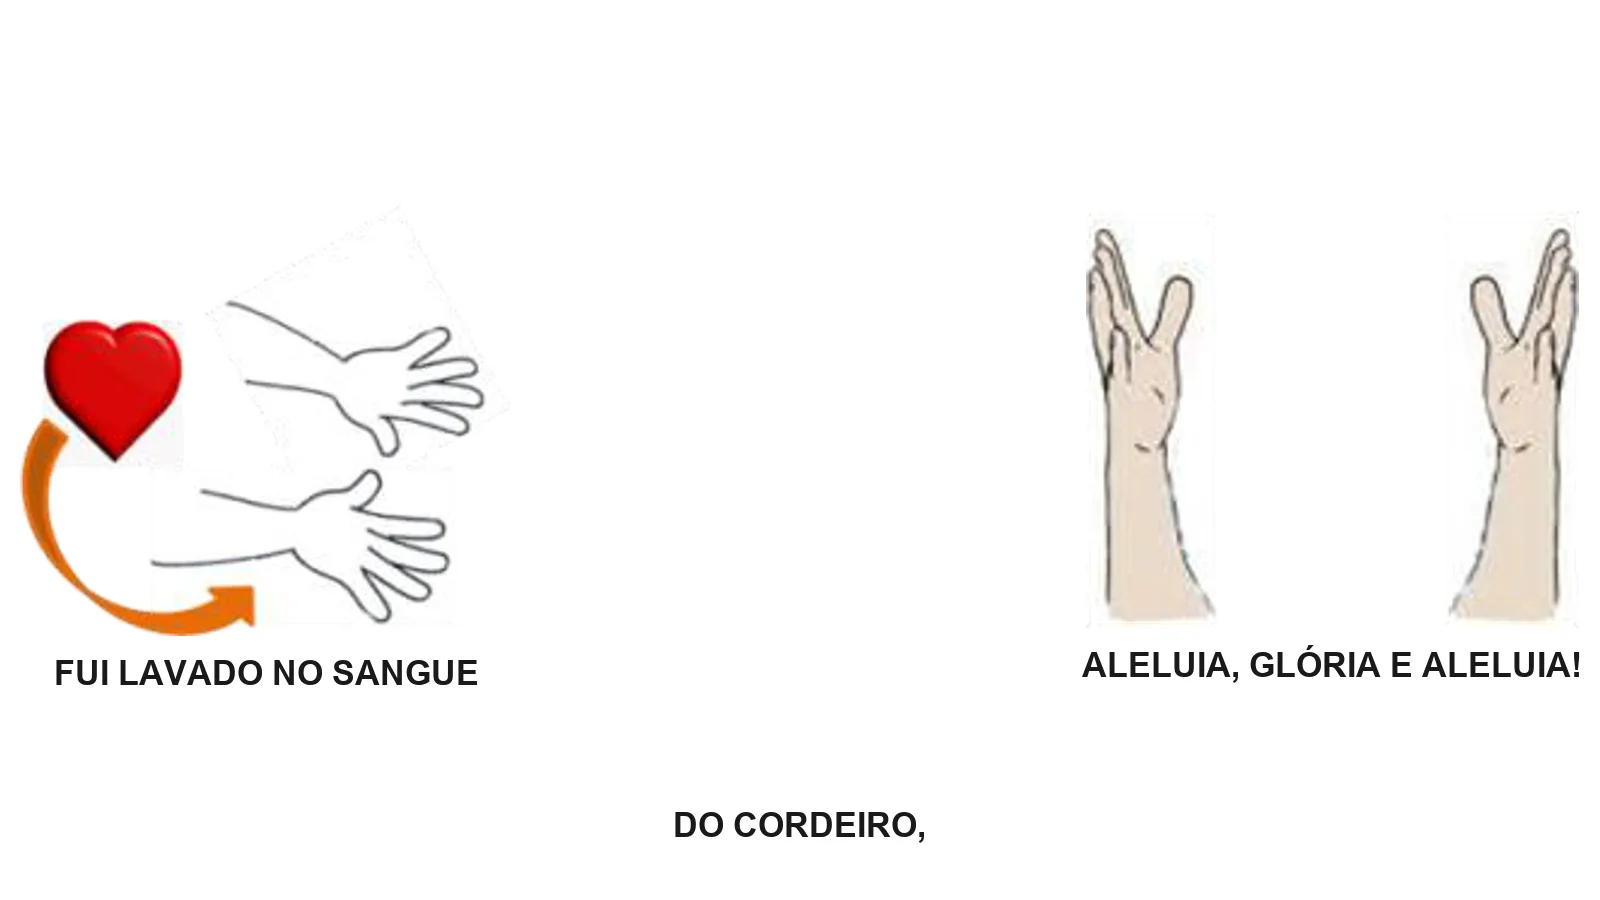
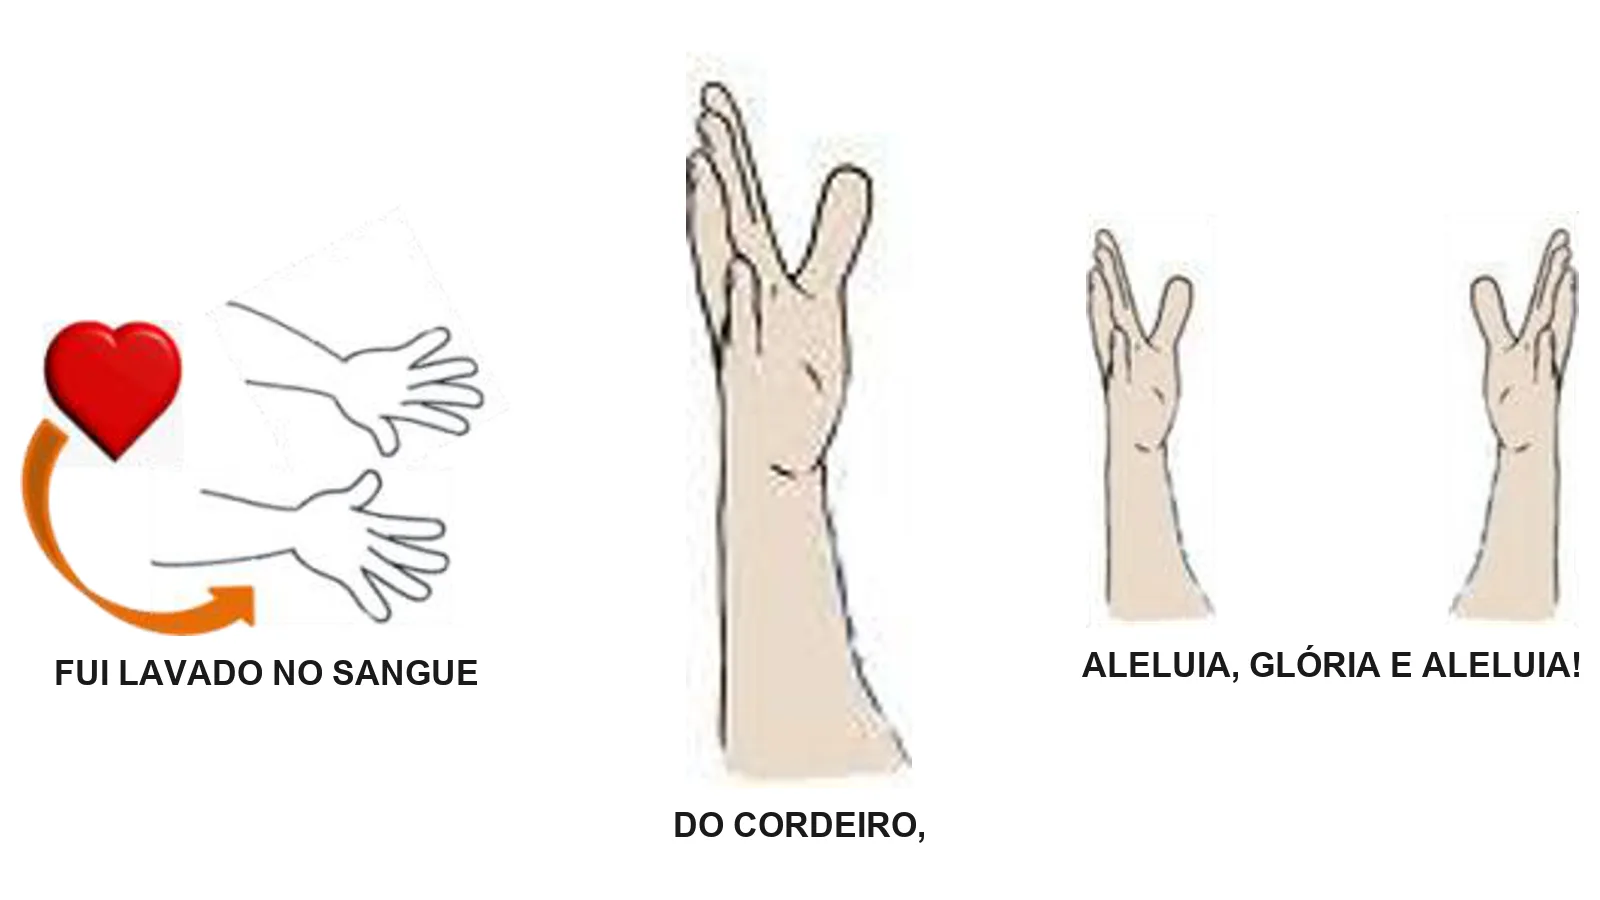
3.0.10 (d): figuras do livro da Cris - a mao levantada, legenda por figura, repetida = gesto da 1a vez
- gestos_da_apresentacao.py: FALTAM vazio (a mao vem do proprio livro agora), cada figura leva o seu
  pedaco da letra (legs do extrator) onde ele muda algo, e a figura e sempre refeita (o nome e a
  posicao no livro: fui_lavado_02_0 era o colchete em branco e agora e a mao).
- 33 slides (24 Louvores + 9 aula): a mao entra em 9 frases; o 2o bloco do Fui lavado herda os gestos
  da 1a vez; 'O Pai Celeste' | 'que deseja a ti todo Bem.'; aula 20: a figura de 'De nova vida e
  felicidade.' estava rotulada 'oportunidade,'.
- 14 figuras sem uso apagadas (todas no historico).

Claude-Session: https://claude.ai/code/session_01CNsiz6T3bK3QPfbwJhJtgK

Changed region(s): [[0.4062, 0.0933, 0.5625, 0.8711]]

diff --git a/dados/gestos.js b/dados/gestos.js
@@ -42,15 +42,15 @@ window.GESTOS["apres:Louvores da Evangelização de Outubro 2026"] = {
   "louvor": "FUI LAVADO NO SANGUE",
   "figs": [
    {
-    "img": "gestos/evang_out2026/f/fui_lavado_fui_lavado_07_0.webp",
+    "img": "gestos/evang_out2026/f/fui_lavado_fui_lavado_00_0.webp",
     "txt": "Fui lavado no sangue"
    },
    {
-    "img": "gestos/evang_out2026/f/fui_lavado_fui_lavado_09_0.webp",
+    "img": "gestos/evang_out2026/f/fui_lavado_fui_lavado_02_0.webp",
     "txt": "do cordeiro,"
    },
    {
-    "img": "gestos/evang_out2026/f/fui_lavado_fui_lavado_10_0.webp",
+    "img": "gestos/evang_out2026/f/fui_lavado_fui_lavado_03_0.webp",
     "txt": "Aleluia, Glória e Aleluia!"
    }
   ]
@@ -60,16 +60,16 @@ window.GESTOS["apres:Louvores da Evangelização de Outubro 2026"] = {
   "louvor": "FUI LAVADO NO SANGUE",
   "figs": [
    {
-    "img": "gestos/evang_out2026/f/fui_lavado_jesus_mao.webp",
+    "img": "gestos/evang_out2026/f/fui_lavado_fui_lavado_100_0.webp",
     "txt": "A Jesus honra e louvor,"
    },
    {
     "img": "gestos/evang_out2026/f/fui_lavado_fui_lavado_101_0.webp",
-    "txt": "Aleluia ao meu Salvador"
+    "txt": "Aleluia"
    },
    {
     "img": "gestos/evang_out2026/f/fui_lavado_fui_lavado_101_1.webp",
-    "txt": "Aleluia ao meu Salvador"
+    "txt": "ao meu Salvador"
    }
   ]
  },
@@ -137,7 +137,11 @@ window.GESTOS["apres:Louvores da Evangelização de Outubro 2026"] = {
    },
    {
     "img": "gestos/evang_out2026/f/81_81_11_0.webp",
-    "txt": "O PAI CELESTE QUE DESEJA A TI TODO BEM."
+    "txt": "O Pai Celeste"
+   },
+   {
+    "img": "gestos/evang_out2026/f/81_81_11_1.webp",
+    "txt": "que deseja a ti todo Bem."
    }
   ]
  },
@@ -172,20 +176,24 @@ window.GESTOS["apres:Louvores da Evangelização de Outubro 2026"] = {
   "louvor": "SENHOR TÃO PEQUENO SOU",
   "figs": [
    {
-    "img": "gestos/evang_out2026/f/81_81_105_0.webp",
+    "img": "gestos/evang_out2026/f/81_81_08_0.webp",
     "txt": "Quem quer subir para o céu"
    },
    {
-    "img": "gestos/evang_out2026/f/81_81_106_0.webp",
+    "img": "gestos/evang_out2026/f/81_81_09_0.webp",
     "txt": "pequeno se faça também,"
    },
    {
-    "img": "gestos/evang_out2026/f/81_81_107_0.webp",
+    "img": "gestos/evang_out2026/f/81_81_10_0.webp",
     "txt": "Entrega tua vida a Jesus:"
    },
    {
     "img": "gestos/evang_out2026/f/81_81_108_0.webp",
-    "txt": "O PAI CELESTE QUE DESEJA A TI TODO BEM."
+    "txt": "O Pai Celeste"
+   },
+   {
+    "img": "gestos/evang_out2026/f/81_81_108_1.webp",
+    "txt": "que deseja a ti todo Bem."
    }
   ]
  },
@@ -194,20 +202,24 @@ window.GESTOS["apres:Louvores da Evangelização de Outubro 2026"] = {
   "louvor": "SENHOR TÃO PEQUENO SOU",
   "figs": [
    {
-    "img": "gestos/evang_out2026/f/81_81_110_0.webp",
+    "img": "gestos/evang_out2026/f/81_81_08_0.webp",
     "txt": "Quem quer subir para o céu"
    },
    {
-    "img": "gestos/evang_out2026/f/81_81_111_0.webp",
+    "img": "gestos/evang_out2026/f/81_81_09_0.webp",
     "txt": "pequeno se faça também,"
    },
    {
-    "img": "gestos/evang_out2026/f/81_81_112_0.webp",
+    "img": "gestos/evang_out2026/f/81_81_10_0.webp",
     "txt": "Entrega tua vida a Jesus:"
    },
    {
+    "img": "gestos/evang_out2026/f/81_81_114_0.webp",
+    "txt": "O Pai Celeste"
+   },
+   {
     "img": "gestos/evang_out2026/f/81_81_116_0.webp",
-    "txt": "Celeste a ti todo"
+    "txt": "que deseja a ti todo Bem."
    }
   ]
  },
@@ -216,7 +228,7 @@ window.GESTOS["apres:Louvores da Evangelização de Outubro 2026"] = {
   "louvor": "JESUS É O CAMINHO",
   "figs": [
    {
-    "img": "gestos/evang_out2026/f/97_jesus_mao.webp",
+    "img": "gestos/evang_out2026/f/97_97_00_0.webp",
     "txt": "Jesus, é o caminho,"
    },
    {
@@ -244,11 +256,11 @@ window.GESTOS["apres:Louvores da Evangelização de Outubro 2026"] = {
   "louvor": "JESUS É O CAMINHO",
   "figs": [
    {
-    "img": "gestos/evang_out2026/f/97_jesus_mao.webp",
+    "img": "gestos/evang_out2026/f/97_97_06_0.webp",
     "txt": "Jesus, é a verdade,"
    },
    {
-    "img": "gestos/evang_out2026/f/97_97_05_0.webp",
+    "img": "gestos/evang_out2026/f/97_97_02_0.webp",
     "txt": "Eu vou ao céu com Ele"
    }
   ]
@@ -262,7 +274,7 @@ window.GESTOS["apres:Louvores da Evangelização de Outubro 2026"] = {
     "txt": "Eu vou, Eu vou"
    },
    {
-    "img": "gestos/evang_out2026/f/97_97_08_0.webp",
+    "img": "gestos/evang_out2026/f/97_97_02_0.webp",
     "txt": "Eu vou ao céu com Ele"
    }
   ]
@@ -276,7 +288,7 @@ window.GESTOS["apres:Louvores da Evangelização de Outubro 2026"] = {
     "txt": "Jesus, é a minha vida,"
    },
    {
-    "img": "gestos/evang_out2026/f/97_97_08_0.webp",
+    "img": "gestos/evang_out2026/f/97_97_02_0.webp",
     "txt": "Eu vou ao céu com Ele"
    }
   ]
@@ -290,7 +302,7 @@ window.GESTOS["apres:Louvores da Evangelização de Outubro 2026"] = {
     "txt": "Eu vou, Eu vou"
    },
    {
-    "img": "gestos/evang_out2026/f/97_97_11_0.webp",
+    "img": "gestos/evang_out2026/f/97_97_02_0.webp",
     "txt": "Eu vou ao céu com Ele"
    }
   ]
@@ -371,7 +383,11 @@ window.GESTOS["apres:Louvores da Evangelização de Outubro 2026"] = {
    },
    {
     "img": "gestos/evang_out2026/f/198_198_102_0.webp",
-    "txt": "ESCRITAS POR JESUS, PARA NOS PREPARAR,"
+    "txt": "escritas por Jesus,"
+   },
+   {
+    "img": "gestos/evang_out2026/f/198_198_102_1.webp",
+    "txt": "para nos preparar,"
    },
    {
     "img": "gestos/evang_out2026/f/198_198_103_0.webp",
@@ -389,7 +405,11 @@ window.GESTOS["apres:Louvores da Evangelização de Outubro 2026"] = {
    },
    {
     "img": "gestos/evang_out2026/f/198_198_105_0.webp",
-    "txt": "PARA JESUS ENCONTRAR, JESUS, MEU BOM PASTOR,"
+    "txt": "para Jesus encontrar,"
+   },
+   {
+    "img": "gestos/evang_out2026/f/198_198_105_1.webp",
+    "txt": "Jesus, meu Bom Pastor"
    }
   ]
  },
@@ -452,6 +472,10 @@ window.GESTOS["apres:Evangelização de Outubro 2026"] = {
   "louvor": "VOCÊ SABE O QUE É SALVAÇÃO",
   "figs": [
    {
+    "img": "gestos/evang_out2026_aula/f/69_69_04_0.webp",
+    "txt": "Jesus nos deu Salvação"
+   },
+   {
     "img": "gestos/evang_out2026_aula/f/69_69_05_0.webp",
     "txt": "quando lá na cruz morreu,"
    },
@@ -469,6 +493,10 @@ window.GESTOS["apres:Evangelização de Outubro 2026"] = {
   "img": "gestos/evang_out2026_aula/s10.webp",
   "louvor": "VOCÊ SABE O QUE É SALVAÇÃO",
   "figs": [
+   {
+    "img": "gestos/evang_out2026_aula/f/69_69_08_0.webp",
+    "txt": "Dê a Ele o seu louvor"
+   },
    {
     "img": "gestos/evang_out2026_aula/f/69_69_09_0.webp",
     "txt": "uma vida de gratidão"
@@ -515,7 +543,11 @@ window.GESTOS["apres:Evangelização de Outubro 2026"] = {
    },
    {
     "img": "gestos/evang_out2026_aula/f/249_249_04_0.webp",
-    "txt": "Cristo"
+    "txt": "Que Jesus Cristo"
+   },
+   {
+    "img": "gestos/evang_out2026_aula/f/249_249_04_1.webp",
+    "txt": "por mim já morreu,"
    },
    {
     "img": "gestos/evang_out2026_aula/f/249_249_05_0.webp",
@@ -563,11 +595,11 @@ window.GESTOS["apres:Evangelização de Outubro 2026"] = {
    },
    {
     "img": "gestos/evang_out2026_aula/f/249_249_15_0.webp",
-    "txt": "É tempo de"
+    "txt": "É tempo de oportunidade,"
    },
    {
     "img": "gestos/evang_out2026_aula/f/249_249_17_0.webp",
-    "txt": "oportunidade,"
+    "txt": "De nova vida e felicidade. | bis"
    }
   ]
  },

diff --git a/ferramentas/gestos_da_apresentacao.py b/ferramentas/gestos_da_apresentacao.py
@@ -41,11 +41,10 @@ SLIDES = APRESENTACOES[APRES]["slides"]
 REPETEM = {"97": {4, 5},
            # a aula (3.0.9): o "bis" do 69 e o coro do 249, que volta no slide 20
            "69": {11, 12, 15}, "249": {8, 9, 10, 11}}
-# figuras que o recorte da Coletânea NÃO pegou (16/10, conferido no PDF da Cris 1790803279, pág. 1):
-# a mão do "Jesus" (imagem 48 do PDF, extraída para figs\extra\jesus_mao.png) ao lado de
-# "A Jesus honra e louvor" (y 77) e de "Jesus, é o caminho" (y 242) / "Jesus, é a verdade" (y 509).
-FALTAM = {("fui_lavado", 11): ["../extra/jesus_mao.png"],
-          ("97", 0): ["../extra/jesus_mao.png"], ("97", 6): ["../extra/jesus_mao.png"]}
+# figuras que o recorte da Coletânea NÃO pegou. 18/10: VAZIO. A mão levantada (imagem 48 do PDF) que
+# entrava aqui à mão em 3 frases era jogada fora pelo filtro de largura do extrai_gestos.py; com o filtro
+# consertado ela vem do próprio livro em 9 frases de 5 louvores, cada uma no lugar dela.
+FALTAM = {}
 # figura que o recorte grudou na frase errada (conferente cego, 16/10): o papel junta "Que me faz
 # vencedor. Estamos preparando, estamos preparando" numa frase só, e a figura 198_106 (= 198_108, md5
 # 18508e00) fica ao lado de "Estamos preparando" (pág. 3, y 470-522). Ela NÃO é do slide 25, e o
@@ -71,10 +70,27 @@ def frases_do(louvor, gestos):
         txt = " ".join("".join(p[0] for p in it["ped"]).split())
         figs = [] if (louvor, i) in TIRAR else it["figs"]
         formas = CASA_COMO.get((louvor, i), [txt])
+        legs = pedacos(txt, it.get("legs"), len(it["figs"])) if figs else []
         for forma in formas:
             out.append({"i": i, "txt": formas[0] if (louvor, i) in CASA_COMO else txt, "pal": norm(forma),
-                        "figs": figs + FALTAM.get((louvor, i), [])})
+                        "figs": figs + FALTAM.get((louvor, i), []), "legs": legs})
     return out
+
+
+def pedacos(txt, legs, n):
+    """O pedaço da letra de CADA figura, lido pelo extrator na posição do texto em volta dela no livro.
+    Só vale onde muda alguma coisa: frase com 2+ figuras ("O Pai Celeste" | "que deseja a ti todo Bem.")
+    ou frase que o extrator montou cruzando as duas colunas (249: "oportunidade," era a figura de
+    "De nova vida e felicidade."). Pedaço vazio = não deu para repartir: fica a frase inteira, como antes."""
+    if not legs or len(legs) != n or not all(legs):
+        return []
+    if n == 1 and sorted(norm(legs[0])) == sorted(norm(txt)):
+        return []                       # a mesma frase: segue a legenda do slide (e o CASA_COMO)
+    return list(legs)
+
+
+def leg_da_figura(f, j, texto):
+    return f["legs"][j] if f.get("legs") else legenda(f, texto)
 
 
 def _ocorre(seq, sub):
@@ -175,7 +191,7 @@ def legenda(frase, texto):
 
 
 def monta_imagem(frases, louvor, destino, texto=""):
-    itens = [(Path(COLET, "figs", louvor, fig), legenda(f, texto)) for f in frases for fig in f["figs"]]
+    itens = [(Path(COLET, "figs", louvor, fig), leg_da_figura(f, j, texto)) for f in frases for j, fig in enumerate(f["figs"])]
     itens = [(p, t) for p, t in itens if p.exists()]
     if not itens:
         return False
@@ -222,14 +238,16 @@ def exporta_figuras(frases, louvor, pasta, texto=""):
     com a legenda em HTML (3.0.9: a letra da legenda precisa de >= 45 px numa TV de 32" a 1080p)."""
     out = []
     for f in frases:
-        leg = legenda(f, texto)
-        for fig in f["figs"]:
+        for j, fig in enumerate(f["figs"]):
+            leg = leg_da_figura(f, j, texto)
             p = Path(COLET, "figs", louvor, fig)
             if not p.exists():
                 continue
             nome = "%s_%s.webp" % (louvor, Path(fig).stem)
             destino = APP / "gestos" / pasta / "f" / nome
-            if not destino.exists():
+            # 18/10: refaz sempre. O nome é a POSIÇÃO no livro (fui_lavado_02_0 era o colchete em branco e
+            # agora é a mão): "se já existe, pula" deixava a figura velha com o nome novo.
+            if True:
                 im = Image.open(p).convert("RGBA")
                 fundo = Image.new("RGBA", im.size, (255, 255, 255, 255))
                 plano = Image.alpha_composite(fundo, im).convert("RGB")
